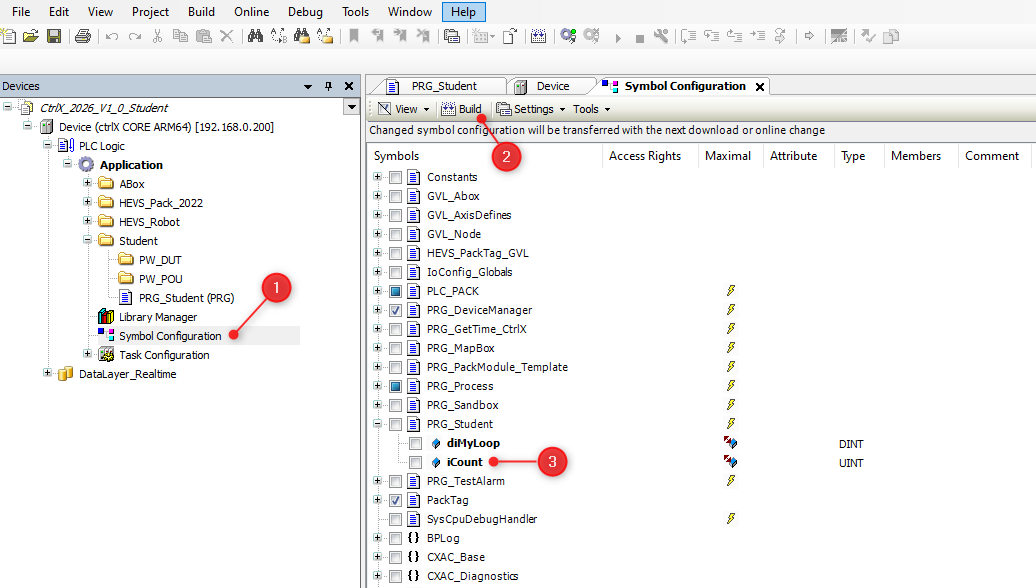
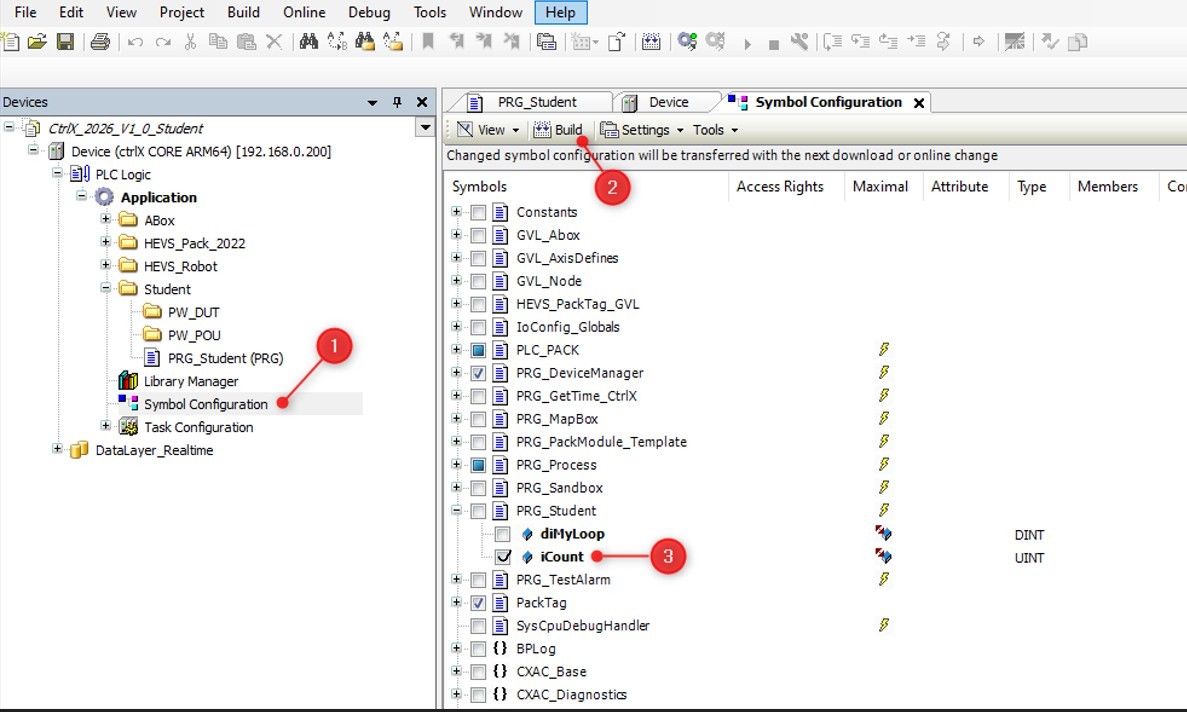
Correction apportée sur image SymbolConfiguration.png

diff --git a/README_DE.md b/README_DE.md
@@ -300,7 +300,7 @@ Damit auf eine Variable von Node-RED aus zugegriffen werden kann, muss der Compi
 
 1. Wählen Sie **Symbol Konfiguration**.
 2. Klicken Sie auf „Build“.
-3. Aktivieren Sie die Variable „iCount“.
+3. **Aktivieren** Sie die Variable „iCount“.
 
    
 

diff --git a/README_FR.md b/README_FR.md
@@ -293,7 +293,7 @@ Pour qu'une variable soit accessible depuis Node-RED, il faut en informer le com
 
 1. Sélectionner **Symbol Configuration**
 2. Cliquer sur "Build".
-3. Sélectionner la variable "iCount"
+3. **Sélectionner** la variable "iCount"
 
    
 
